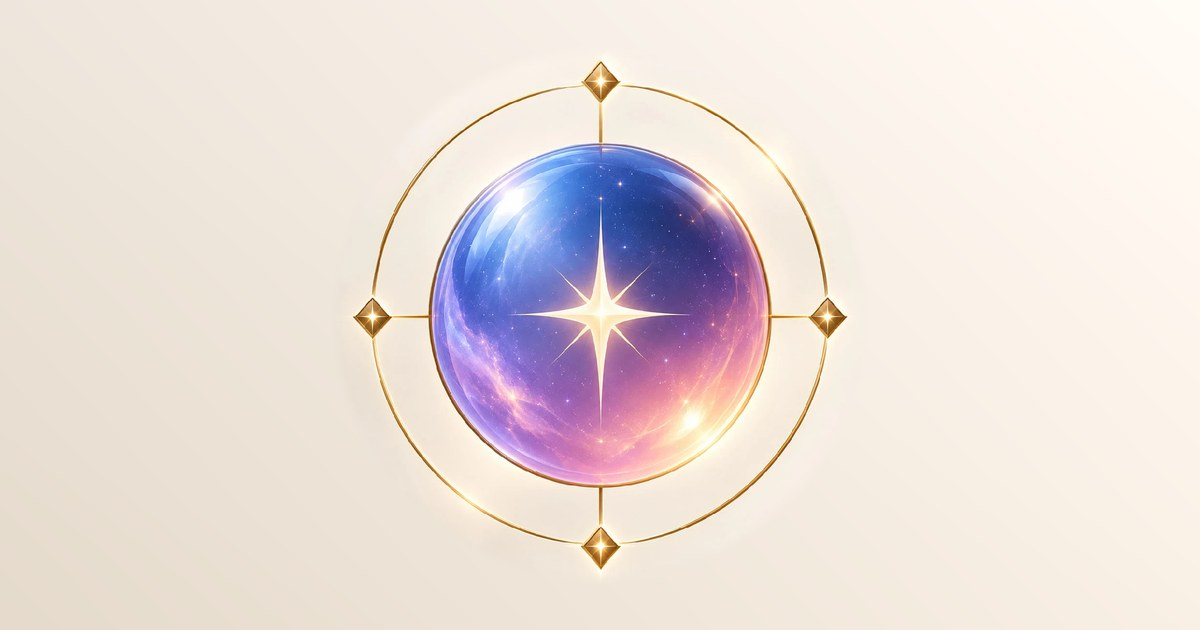
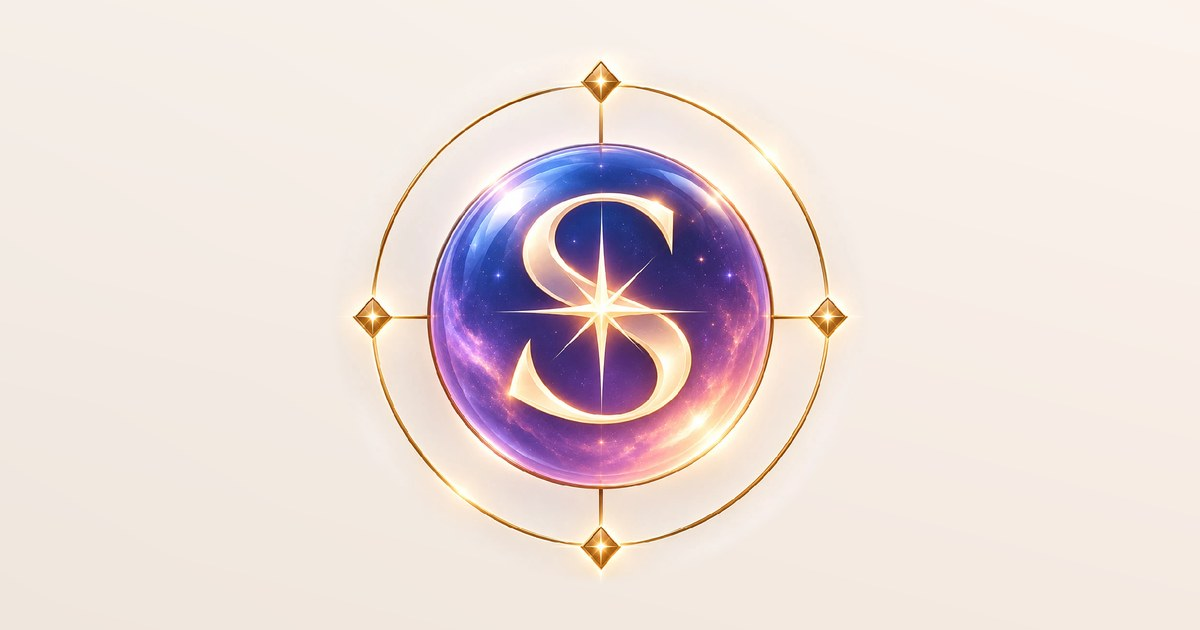
Новое название Saliastro и новый знак (шар с буквой S); адрес sneznyj.github.io/saliastro
src: 8cfd6367d42af735d5a2ddbde6f9e17f64b71e4a

diff --git a/index.html b/index.html
@@ -4,12 +4,12 @@
 <meta charset="utf-8">
 <meta name="robots" content="noindex, nofollow">
 <meta name="viewport" content="width=device-width,initial-scale=1,viewport-fit=cover">
-<title>Salistro — твоя карта как инструкция к себе</title>
+<title>Saliastro — твоя карта как инструкция к себе</title>
 <meta name="description" content="Личный астрологический календарь: баллы дня для любви, денег, работы и запусков. Натальная карта простым языком, совместимость, ИИ-помощник и профи-инструменты.">
-<meta property="og:title" content="Salistro — твоя карта как инструкция к себе">
+<meta property="og:title" content="Saliastro — твоя карта как инструкция к себе">
 <meta property="og:description" content="Нажми кнопку — и увидишь баллы своих дней: любовь, деньги, работа, запуски. Без астрологических терминов.">
 <meta property="og:type" content="website">
-<meta property="og:image" content="https://sneznyj.github.io/natalogy/assets/brand/og-1200x630.jpg">
+<meta property="og:image" content="https://sneznyj.github.io/saliastro/assets/brand/og-1200x630.jpg">
 <meta name="theme-color" content="#FDFAF5">
 <link rel="manifest" href="manifest.webmanifest">
 <link rel="icon" href="assets/icons/favicon.ico" sizes="any">
@@ -21,7 +21,7 @@
 <link rel="stylesheet" href="https://fonts.googleapis.com/css2?family=Cormorant+Garamond:ital,wght@0,500;0,600;1,500;1,600&family=Manrope:wght@400;500;600;700;800&family=Caveat:wght@600&family=JetBrains+Mono:wght@400;500;600&display=swap">
 <link rel="stylesheet" href="https://fonts.googleapis.com/css2?family=Noto+Sans+Symbols&family=Noto+Sans+Symbols+2&display=swap&text=%E2%98%89%E2%98%BD%E2%98%BF%E2%99%80%E2%99%82%E2%99%83%E2%99%84%E2%99%85%E2%99%86%E2%99%87%E2%AF%93%E2%98%8A%E2%98%8B%E2%9A%B7%E2%9A%B8%E2%8A%97%E2%99%88%E2%99%89%E2%99%8A%E2%99%8B%E2%99%8C%E2%99%8D%E2%99%8E%E2%99%8F%E2%99%90%E2%99%91%E2%99%92%E2%99%93%E2%98%8C%E2%9A%B9%E2%96%A1%E2%96%B3%E2%98%8D%EF%B8%8E">
 <link rel="stylesheet" href="css/app.css">
-<script>try{var s=JSON.parse(localStorage.getItem('natalogy:v1')||'{}').settings||{};if(s.theme==='dark'||s.theme==='light')document.documentElement.setAttribute('data-theme',s.theme)}catch(e){}</script>
+<script>try{var s=JSON.parse(localStorage.getItem('saliastro:v1')||localStorage.getItem('natalogy:v1')||'{}').settings||{};if(s.theme==='dark'||s.theme==='light')document.documentElement.setAttribute('data-theme',s.theme)}catch(e){}</script>
 <style>
 /* Витрина: та же система, что в кабинете, — кремовый лист, лаванда, золото. Каждая карточка ведёт прямо в раздел кабинета. */
 .lw{max-width:1180px;margin:0 auto;padding-inline:20px}
@@ -111,7 +111,7 @@ ul.yes li::before{content:"✓";color:var(--mint);font-weight:800}
 </head>
 <body>
 <header class="lnav"><div class="lw">
-  <a class="brand" href="./"><span class="brand-mark" aria-hidden="true"></span>Salistro</a>
+  <a class="brand" href="./"><span class="brand-mark" aria-hidden="true"></span>Saliastro</a>
   <span class="sp"></span>
   <a class="lk lk-hot" href="app.html#horoscope" data-i="nav.horo">★ Гороскоп</a>
   <a class="lk" href="app.html#calendar" data-i="nav.cal">Календарь</a>
@@ -215,7 +215,7 @@ ul.yes li::before{content:"✓";color:var(--mint);font-weight:800}
   </section>
 </main>
 <footer class="foot"><div class="lw cols">
-  <div><a class="brand" href="./" style="color:var(--ink)"><span class="brand-mark" aria-hidden="true"></span>Salistro</a><p style="margin-top:10px" data-i="foot.note">Для самопознания. Не медицинский, юридический или финансовый совет.</p><p style="margin-top:8px">© 2026 Natalogy · <a href="privacy.html" data-i="privacy">Конфиденциальность</a> · <a href="terms.html" data-i="terms">Условия</a></p></div>
+  <div><a class="brand" href="./" style="color:var(--ink)"><span class="brand-mark" aria-hidden="true"></span>Saliastro</a><p style="margin-top:10px" data-i="foot.note">Для самопознания. Не медицинский, юридический или финансовый совет.</p><p style="margin-top:8px">© 2026 Saliastro · <a href="privacy.html" data-i="privacy">Конфиденциальность</a> · <a href="terms.html" data-i="terms">Условия</a></p></div>
   <div><span class="label" data-i="foot.lk">Кабинет</span><ul><li><a href="app.html#horoscope" data-i="l.horo">Гороскоп</a></li><li><a href="app.html#numerology" data-i="l.num">Нумерология</a></li><li><a href="app.html#sky" data-i="l.sky">Небо и Луна</a></li><li><a href="app.html#today" data-i="l.today">Сегодня</a></li><li><a href="app.html#calendar" data-i="l.cal">Календарь</a></li><li><a href="app.html#calendar?v=week" data-i="l.week">Неделя по часам</a></li><li><a href="app.html#chart" data-i="l.chart">Моя карта</a></li><li><a href="app.html#pair" data-i="l.pair">Совместимость</a></li><li><a href="app.html#ask" data-i="l.ask">Спросить ИИ</a></li></ul></div>
   <div><span class="label" data-i="foot.pro">Профи</span><ul><li><a href="app.html#pro?type=transit" data-i="l.tr">Транзиты</a></li><li><a href="app.html#pro?type=solar" data-i="l.sol">Соляр</a></li><li><a href="app.html#pro?type=directions" data-i="l.dir">Дирекции</a></li><li><a href="app.html#pro?tab=firdaria" data-i="l.fird">Фирдарии</a></li><li><a href="app.html#pro?tab=acg" data-i="l.acg">Астрокартография</a></li><li><a href="app.html#people" data-i="l.people">Мои люди</a></li></ul></div>
 </div></footer>
@@ -266,7 +266,7 @@ ul.yes li::before{content:"✓";color:var(--mint);font-weight:800}
   };
   const lang = UI.lang();
   document.documentElement.lang = lang;
-  if (lang === 'en') { document.querySelectorAll('[data-i]').forEach((el) => { const v = EN[el.dataset.i]; if (v == null) return; if (el.hasAttribute('data-html')) el.innerHTML = v; else el.textContent = v; }); document.title = 'Salistro — your chart as a guide to yourself'; }
+  if (lang === 'en') { document.querySelectorAll('[data-i]').forEach((el) => { const v = EN[el.dataset.i]; if (v == null) return; if (el.hasAttribute('data-html')) el.innerHTML = v; else el.textContent = v; }); document.title = 'Saliastro — your chart as a guide to yourself'; }
   const sw = document.getElementById('langsw'); sw.textContent = lang === 'en' ? 'RU' : 'EN';
   sw.addEventListener('click', () => { window.NStore.set('lang', lang === 'en' ? 'ru' : 'en'); location.reload(); });
   // уже есть карта — приветствие и ссылки сразу в кабинет
@@ -307,7 +307,7 @@ ul.yes li::before{content:"✓";color:var(--mint);font-weight:800}
     document.getElementById('horoSigns').innerHTML = AC.SIGNS.map((s, i) => { const r = H.scoreDay(i, st, { voc }).r.overall; return `<a class="sg${s === mySign ? ' me' : ''}" href="app.html#horoscope?sign=${s}"><span class="g">${window.NWheel.SIGN_G[i]}</span><b>${TX.S[s].name}</b><small>${DATES[i]}</small><span class="pt pts ${UI.lvCls(r.level)}">${r.pts}<small>/10</small></span></a>`; }).join('');
   } catch (e) { console.error(e); }
   // уже вошёл в аккаунт — кнопка «Войти» не нужна
-  try { if (JSON.parse(localStorage.getItem('natalogy:acct') || '{}').token) document.getElementById('loginLk').hidden = true; } catch (e) { /* пусто */ }
+  try { if (JSON.parse(localStorage.getItem('saliastro:acct') || localStorage.getItem('natalogy:acct') || '{}').token) document.getElementById('loginLk').hidden = true; } catch (e) { /* пусто */ }
   document.getElementById('tools').innerHTML = TOOLS.map(([g, r, e, h]) => `<a href="app.html#${h}"><b>${g}</b>${lang === 'en' ? e : r}</a>`).join('');
   // демо
   const dd = document.getElementById('dd');

diff --git a/js/account.js b/js/account.js
@@ -1,4 +1,4 @@
-/* Аккаунт Natalogy (необязательный). Без входа всё хранится в браузере, и сохранить можно одну карточку (NCONFIG.account.guestLimit).
+/* Аккаунт Saliastro (необязательный). Без входа всё хранится в браузере, и сохранить можно одну карточку (NCONFIG.account.guestLimit).
    Вход: Google, Яндекс ID, VK ID (ВКонтакте, Одноклассники, Mail.ru), Telegram или почта + пароль. После входа карточки
    с устройства сливаются с карточками аккаунта и дальше синхронизируются (сервер — server/account-worker, данные там зашифрованы).
    Пароль не уходит на сервер: браузер отправляет только его хэш (PBKDF2, 210 000 повторов), сервер хэширует ещё раз со своей солью. */
@@ -7,12 +7,12 @@
   const UI = root.NUI, S = root.NStore;
   const { t, esc, icon } = UI;
   const CFG = () => (root.NCONFIG && root.NCONFIG.account) || {};
-  const KEY = 'natalogy:acct', AFTER = 'natalogy:afterLogin';
+  const KEY = 'saliastro:acct', AFTER = 'saliastro:afterLogin';
   let A = readA();
   let status = A.token ? (A.dirty ? 'dirty' : 'ok') : 'guest';
   let applying = false, timer = null, pushing = null, provCache = null, pendingCode = null, pendingErr = null, pendingOpen = false, linkedNote = null;
 
-  function readA() { try { return JSON.parse(localStorage.getItem(KEY) || 'null') || {}; } catch (e) { return {}; } }
+  function readA() { try { return JSON.parse(localStorage.getItem(KEY) || localStorage.getItem('natalogy:acct') || 'null') || {}; } catch (e) { return {}; } } // natalogy:acct — вход до переименования 16.10.2026
   function saveA() { try { localStorage.setItem(KEY, JSON.stringify(A)); } catch (e) { /* без хранилища — до перезагрузки */ } }
   const loggedIn = () => !!(A && A.token);
   const enabled = () => !!CFG().api;
@@ -36,7 +36,7 @@
   }
   async function pwHash(email, pw) {
     const k = await crypto.subtle.importKey('raw', new TextEncoder().encode(pw), 'PBKDF2', false, ['deriveBits']);
-    const bits = await crypto.subtle.deriveBits({ name: 'PBKDF2', hash: 'SHA-256', salt: new TextEncoder().encode('natalogy|' + String(email).trim().toLowerCase()), iterations: 210000 }, k, 256);
+    const bits = await crypto.subtle.deriveBits({ name: 'PBKDF2', hash: 'SHA-256', salt: new TextEncoder().encode('natalogy|' /* соль не менять: от неё зависят уже заданные пароли */ + String(email).trim().toLowerCase()), iterations: 210000 }, k, 256);
     let s = ''; new Uint8Array(bits).forEach((b) => { s += String.fromCharCode(b); }); return btoa(s);
   }
 
@@ -50,7 +50,7 @@
     for (const k of Object.keys(del)) if (del[k] < cutoff) delete del[k];
     const pick = (a, b) => { const m = new Map(); for (const x of (a || []).concat(b || [])) { if (!x || !x.id) continue; const q = m.get(x.id); if (!q || stamp(x) > stamp(q)) m.set(x.id, x); } return Array.from(m.values()).filter((x) => !(del[x.id] && del[x.id] >= stamp(x))); };
     const newer = (local.settingsAt || 0) >= (remote.settingsAt || 0);
-    return { app: 'natalogy', v: 1, people: pick(remote.people, local.people), saved: pick(remote.saved, local.saved).sort((a, b) => (b.at || 0) - (a.at || 0)), deleted: del, settings: newer ? local.settings : remote.settings, settingsAt: Math.max(local.settingsAt || 0, remote.settingsAt || 0), activeId: local.activeId || remote.activeId };
+    return { app: 'saliastro', v: 1, people: pick(remote.people, local.people), saved: pick(remote.saved, local.saved).sort((a, b) => (b.at || 0) - (a.at || 0)), deleted: del, settings: newer ? local.settings : remote.settings, settingsAt: Math.max(local.settingsAt || 0, remote.settingsAt || 0), activeId: local.activeId || remote.activeId };
   }
   const norm = (d) => JSON.stringify(d ? [(d.people || []).map((p) => [p.id, stamp(p)]).sort(), (d.saved || []).map((c) => [c.id, stamp(c)]).sort(), Object.keys(d.deleted || {}).sort(), d.settingsAt || 0] : null);
   function apply(doc) {
@@ -174,7 +174,7 @@
       denied: t('acc.e.denied', 'Вход отменён.'),
       provider: t('acc.e.provider', 'Сервис входа не ответил. Попробуйте ещё раз или другой способ.'),
       unavailable: t('acc.e.unavail', 'Этот способ входа пока недоступен — выберите другой.'),
-      already_linked: t('acc.e.linked', 'Этот вход уже привязан к другому аккаунту Salistro.'),
+      already_linked: t('acc.e.linked', 'Этот вход уже привязан к другому аккаунту Saliastro.'),
       last_login: t('acc.e.last', 'Нельзя отвязать единственный способ входа.'),
     })[c] || t('acc.e.other', 'Что-то пошло не так. Попробуйте ещё раз.');
   }

diff --git a/terms.html b/terms.html
@@ -4,7 +4,7 @@
 <meta charset="utf-8">
 <meta name="robots" content="noindex, nofollow">
 <meta name="viewport" content="width=device-width,initial-scale=1,viewport-fit=cover">
-<title>Salistro — условия</title>
+<title>Saliastro — условия</title>
 <meta name="theme-color" content="#F3F2F6">
 <link rel="icon" href="assets/icons/favicon.ico" sizes="any">
 <link rel="icon" href="assets/icons/favicon-32.png" type="image/png" sizes="32x32">
@@ -16,12 +16,12 @@
 </head>
 <body>
 <main class="doc">
-  <a class="brand" href="./"><span class="brand-mark" aria-hidden="true"></span>Salistro</a>
+  <a class="brand" href="./"><span class="brand-mark" aria-hidden="true"></span>Saliastro</a>
   <h1>Условия использования</h1>
   <p class="muted">Редакция от 12 октября 2026 года. English version below.</p>
 
   <h2>1. Что это за сервис</h2>
-  <p>Salistro — программа для самопознания и планирования: она считает астрологические карты и календарь и объясняет их простым языком. Это не гадание, не предсказание судьбы и не замена консультации врача, юриста, психолога или финансового советника.</p>
+  <p>Saliastro — программа для самопознания и планирования: она считает астрологические карты и календарь и объясняет их простым языком. Это не гадание, не предсказание судьбы и не замена консультации врача, юриста, психолога или финансового советника.</p>
 
   <h2>2. Возраст</h2>
   <p>Пользоваться можно с 16 лет.</p>
@@ -59,7 +59,7 @@
   <hr class="soft">
   <h1 lang="en">Terms of use</h1>
   <div lang="en" class="stack">
-    <p><b>1. The service.</b> Salistro is software for self-reflection and planning: it calculates astrological charts and calendars and explains them in plain language. It is not fortune telling and not a substitute for medical, legal, psychological or financial advice.</p>
+    <p><b>1. The service.</b> Saliastro is software for self-reflection and planning: it calculates astrological charts and calendars and explains them in plain language. It is not fortune telling and not a substitute for medical, legal, psychological or financial advice.</p>
     <p><b>2. Age.</b> 16+.</p>
     <p><b>3. Free version and beta.</b> All features are currently free in beta. Daily AI questions are limited. We may change features and limits with notice in the app.</p>
     <p><b>Account.</b> You can use the service without signing in; one person’s chart is saved without an account. Signing in (Google, Yandex ID, VK ID, Telegram or email and password) lets you save more charts and see them on all your devices. Don’t share your sign-in. You can delete your account in Settings at any time.</p>
@@ -70,7 +70,7 @@
     <p><b>8. Liability.</b> Provided “as is”; to the extent permitted by law we are not liable for indirect damages or decisions based on interpretations.</p>
     <p><b>9. Law.</b> Georgian law applies unless mandatory rules of your country give you more protection. Contact us first: <span class="ph">[email]</span>. Provider: <span class="ph">[sole proprietor — name, Georgian registration number, address]</span>.</p>
   </div>
-  <p><a href="app.html">← Salistro</a></p>
+  <p><a href="app.html">← Saliastro</a></p>
 </main>
 </body>
 </html>

diff --git a/js/store.js b/js/store.js
@@ -4,14 +4,14 @@
    Чтение и запись обёрнуты в try/catch: в приватном режиме хранилище может быть недоступно. */
 (function (root) {
   'use strict';
-  const KEY = 'natalogy:v1';
+  const KEY = 'saliastro:v1', OLD_KEY = 'natalogy:v1'; // до 16.10.2026 данные лежали под старым рабочим названием — переносим при первом открытии
   let mem = null;
   const empty = () => ({ people: [], activeId: null, settings: { lang: null, theme: 'system', houseSystem: 'placidus', here: null, aiConsent: false, mode: 'simple', orbs: 1 }, saved: [], ask: { day: '', used: 0 }, deviceId: null, deleted: {}, settingsAt: 0 });
   // настройки, которые едут вместе с аккаунтом на другие устройства
   const SYNC_SETTINGS = ['lang', 'theme', 'houseSystem', 'here', 'aiConsent', 'mode', 'orbs', 'horoSign', 'orbTable'];
   function load() {
     if (mem) return mem;
-    try { const raw = localStorage.getItem(KEY); mem = raw ? Object.assign(empty(), JSON.parse(raw)) : empty(); } catch (e) { mem = empty(); }
+    try { let raw = localStorage.getItem(KEY); if (!raw && (raw = localStorage.getItem(OLD_KEY))) localStorage.setItem(KEY, raw); mem = raw ? Object.assign(empty(), JSON.parse(raw)) : empty(); } catch (e) { mem = empty(); }
     mem.settings = Object.assign(empty().settings, mem.settings || {});
     if (!mem.deleted || typeof mem.deleted !== 'object') mem.deleted = {};
     if (!mem.deviceId) mem.deviceId = rid() + rid();
@@ -56,10 +56,10 @@
     askUsed(day) { const a = load().ask; return a.day === day ? a.used : 0; },
     askInc(day) { const s = load(); if (s.ask.day !== day) s.ask = { day, used: 0 }; s.ask.used++; save(); },
     deviceId() { return load().deviceId; },
-    exportJSON() { const s = load(); return JSON.stringify({ app: 'natalogy', v: 1, people: s.people, saved: s.saved, settings: s.settings }, null, 1); },
+    exportJSON() { const s = load(); return JSON.stringify({ app: 'saliastro', v: 1, people: s.people, saved: s.saved, settings: s.settings }, null, 1); },
     importJSON(text) {
       const d = JSON.parse(text);
-      if (!d || d.app !== 'natalogy' || !Array.isArray(d.people)) throw new Error('bad file');
+      if (!d || (d.app !== 'saliastro' && d.app !== 'natalogy') || !Array.isArray(d.people)) throw new Error('bad file');
       const s = load();
       for (const p of d.people) { if (!s.people.some((x) => x.id === p.id)) s.people.push(p); }
       for (const c of d.saved || []) { if (!s.saved.some((x) => x.id === c.id)) s.saved.push(c); }
@@ -72,7 +72,7 @@
     syncDoc() {
       const s = load(), set = {};
       for (const k of SYNC_SETTINGS) if (s.settings[k] !== undefined) set[k] = s.settings[k];
-      return { app: 'natalogy', v: 1, people: s.people, saved: s.saved, deleted: s.deleted, settings: set, settingsAt: s.settingsAt || 0, activeId: s.activeId };
+      return { app: 'saliastro', v: 1, people: s.people, saved: s.saved, deleted: s.deleted, settings: set, settingsAt: s.settingsAt || 0, activeId: s.activeId };
     },
     /** Применить слитый снимок (после входа или с другого устройства). Без записи в историю правок. */
     applyDoc(d) {

diff --git a/app.html b/app.html
@@ -4,7 +4,7 @@
 <meta charset="utf-8">
 <meta name="robots" content="noindex, nofollow">
 <meta name="viewport" content="width=device-width,initial-scale=1,viewport-fit=cover">
-<title>Salistro</title>
+<title>Saliastro</title>
 <meta name="description" content="Личный астрологический календарь: какие дни хороши для любви, денег, работы и запусков. Натальная карта простым языком и профи-инструменты.">
 <meta name="theme-color" content="#FDFAF5">
 <link rel="manifest" href="manifest.webmanifest">
@@ -17,7 +17,7 @@
 <link rel="stylesheet" href="https://fonts.googleapis.com/css2?family=Cormorant+Garamond:ital,wght@0,500;0,600;1,500;1,600&family=Manrope:wght@400;500;600;700;800&family=Caveat:wght@600&family=JetBrains+Mono:wght@400;500;600&display=swap">
 <link rel="stylesheet" href="https://fonts.googleapis.com/css2?family=Noto+Sans+Symbols&family=Noto+Sans+Symbols+2&display=swap&text=%E2%98%89%E2%98%BD%E2%98%BF%E2%99%80%E2%99%82%E2%99%83%E2%99%84%E2%99%85%E2%99%86%E2%99%87%E2%AF%93%E2%98%8A%E2%98%8B%E2%9A%B7%E2%9A%B8%E2%8A%97%E2%99%88%E2%99%89%E2%99%8A%E2%99%8B%E2%99%8C%E2%99%8D%E2%99%8E%E2%99%8F%E2%99%90%E2%99%91%E2%99%92%E2%99%93%E2%98%8C%E2%9A%B9%E2%96%A1%E2%96%B3%E2%98%8D%E2%9A%BB%E2%9A%BA%E2%88%A0%E2%9A%BC%E2%9C%A6%E2%9C%B6%E2%97%8B%E2%97%8F%E2%86%92%E2%86%94%EF%B8%8E">
 <link rel="stylesheet" href="css/app.css">
-<script>try{var s=JSON.parse(localStorage.getItem('natalogy:v1')||'{}').settings||{};if(s.theme==='dark'||s.theme==='light')document.documentElement.setAttribute('data-theme',s.theme)}catch(e){}</script>
+<script>try{var s=JSON.parse(localStorage.getItem('saliastro:v1')||localStorage.getItem('natalogy:v1')||'{}').settings||{};if(s.theme==='dark'||s.theme==='light')document.documentElement.setAttribute('data-theme',s.theme)}catch(e){}</script>
 </head>
 <body>
 <div id="app"><main class="main"><p style="opacity:.6">Загрузка…</p></main></div>

diff --git a/js/config.js b/js/config.js
@@ -1,7 +1,7 @@
 /* Настройки проекта: всё, что меняется без правки кода. */
 window.NCONFIG = {
-  brand: 'Salistro',              // название (16.10.2026: было рабочее Natalogy) — меняется здесь, в manifest.webmanifest, заголовках *.html и в privacy/terms
-  brandRu: 'Наталогия',
+  brand: 'Saliastro',              // название (16.10.2026) — меняется здесь, в manifest.webmanifest, заголовках *.html и в privacy/terms
+  brandRu: 'Салиастро',
   version: '0.5.0',
   // Адрес ИИ-помощника (Cloudflare Worker из server/ai-worker). Пусто — отвечает встроенный помощник по правилам, без интернета.
   aiEndpoint: '',
@@ -22,8 +22,8 @@ window.NCONFIG = {
   pro: { paid: false, priceMonth: '$7.99', priceYear: '$49' }, // платная подписка — после выхода Венеры из тени (15.12.2026)
   // Аккаунты (необязательный вход): сервер server/account-worker. guestLimit — сколько карточек можно сохранить без входа.
   // Пусто в api — кнопки «Войти» нет, всё только на устройстве.
-  account: { api: 'https://natalogy-account.sneznyjpavel.workers.dev', guestLimit: 1 },
+  account: { api: 'https://natalogy-account.sneznyjpavel.workers.dev', guestLimit: 1 }, // адрес сервера прежний: на него настроены входы Google, Яндекс, VK, Telegram
   contact: '',
   searchIndex: false,             // false — сайт закрыт от поисковиков (noindex), открывают только по ссылке. true — когда будет публичный запуск
-  siteUrl: 'https://sneznyj.github.io/natalogy/',
+  siteUrl: 'https://sneznyj.github.io/saliastro/',
 };

diff --git a/js/i18n-en.js b/js/i18n-en.js
@@ -179,7 +179,7 @@ Object.assign(window.NI18N.en, {
   'acc.e.offline': 'Can’t reach the server. Check your internet and try again.', 'acc.e.wrong': 'Wrong email or password.', 'acc.e.taken': 'This email is already registered — sign in with your password or with the same button as last time.',
   'acc.e.email': 'Check the email address.', 'acc.e.pw': 'The password must be at least 8 characters.', 'acc.e.rate': 'Too many attempts. Wait 15 minutes.', 'acc.e.nopw': 'This account has no password — sign in with a button above (Google, Yandex…).',
   'acc.e.state': 'Sign-in was interrupted — please try again.', 'acc.e.denied': 'Sign-in cancelled.', 'acc.e.provider': 'The sign-in service didn’t respond. Try again or use another way.', 'acc.e.unavail': 'This sign-in method isn’t available yet — choose another.',
-  'acc.e.linked': 'This sign-in is already linked to another Salistro account.', 'acc.e.last': 'You can’t unlink your only way to sign in.', 'acc.e.other': 'Something went wrong. Please try again.', 'acc.off': 'Sign-in isn’t connected yet',
+  'acc.e.linked': 'This sign-in is already linked to another Saliastro account.', 'acc.e.last': 'You can’t unlink your only way to sign in.', 'acc.e.other': 'Something went wrong. Please try again.', 'acc.off': 'Sign-in isn’t connected yet',
   'acc.whyMore': 'Without signing in you can save one chart. Sign in to add as many as you like: everything is kept in your account and won’t disappear, even if the browser is cleared.',
   'acc.why': 'An account keeps your charts and settings safe: they won’t disappear when the browser is cleared, and they’ll be on your phone and computer.',
   'acc.loading': 'Loading sign-in options…', 'acc.orEmail': 'or with email', 'acc.tLogin': 'Sign in', 'acc.tReg': 'Create account', 'acc.name': 'Your name', 'acc.email': 'Email', 'acc.pw': 'Password', 'acc.show': 'Show password',

diff --git a/privacy.html b/privacy.html
@@ -4,7 +4,7 @@
 <meta charset="utf-8">
 <meta name="robots" content="noindex, nofollow">
 <meta name="viewport" content="width=device-width,initial-scale=1,viewport-fit=cover">
-<title>Salistro — конфиденциальность</title>
+<title>Saliastro — конфиденциальность</title>
 <meta name="theme-color" content="#F3F2F6">
 <link rel="icon" href="assets/icons/favicon.ico" sizes="any">
 <link rel="icon" href="assets/icons/favicon-32.png" type="image/png" sizes="32x32">
@@ -16,7 +16,7 @@
 </head>
 <body>
 <main class="doc">
-  <a class="brand" href="./"><span class="brand-mark" aria-hidden="true"></span>Salistro</a>
+  <a class="brand" href="./"><span class="brand-mark" aria-hidden="true"></span>Saliastro</a>
   <h1>Политика конфиденциальности</h1>
   <p class="muted">Редакция от 12 октября 2026 года. English version below.</p>
 
@@ -71,7 +71,7 @@
     <p><b>International transfers</b>: Anthropic PBC (USA) — API data is not used to train models; Cloudflare (USA) hosts our server and the account database (Cloudflare D1; chart data is encrypted). Google, Yandex, VK and Telegram handle sign-in under their own terms.</p>
     <p><b>Your rights</b>: access, correction, deletion, withdrawal of consent, and complaint to your local authority. Most of them you exercise directly in the app. The service is for people aged 16+.</p>
   </div>
-  <p><a href="app.html">← Salistro</a></p>
+  <p><a href="app.html">← Saliastro</a></p>
 </main>
 </body>
 </html>

diff --git a/js/pages/chart.js b/js/pages/chart.js
@@ -147,7 +147,7 @@
       }
     };
     const jumpTo = (d) => { st.at = Math.abs(d - Date.now()) < 60000 ? null : d; if (tb && tb.set) tb.set(d); drawWheel(); };
-    el.addEventListener('natalogy:jump', (e) => jumpTo(e.detail));
+    el.addEventListener('saliastro:jump', (e) => jumpTo(e.detail));
     el.querySelectorAll('[data-mode]').forEach((b) => b.addEventListener('click', () => { st.mode = b.dataset.mode; el.querySelectorAll('[data-mode]').forEach((x) => x.setAttribute('aria-pressed', String(x === b))); setHint(); mountBar(); drawWheel(); if (st.mode === 'natal') drawPortrait(el, p, natalFor(p)); }));
     // «Рабочий режим»: та же карта (с тем же моментом и пробным временем) в Профи — на весь экран
     el.querySelector('[data-work]').addEventListener('click', () => {
@@ -227,7 +227,7 @@
     }));
     el.querySelectorAll('#posBox [data-sd]').forEach((g) => g.addEventListener('click', () => {
       const d = new Date(mom.getTime() + (+g.dataset.sd) * 86400000);
-      el.dispatchEvent(new CustomEvent('natalogy:jump', { detail: d }));
+      el.dispatchEvent(new CustomEvent('saliastro:jump', { detail: d }));
     }));
   }
 

diff --git a/js/ai.js b/js/ai.js
@@ -39,7 +39,7 @@
       .map((r) => ({ planet: r.id, from: r.start.toISOString().slice(0, 10), to: r.end.toISOString().slice(0, 10) }));
     const age = now.y - person.y - ((now.mo < person.mo || (now.mo === person.mo && now.d < person.d)) ? 1 : 0);
     const f = {
-      app: 'natalogy', today: dstr(now), timezone: tz, person: { gender: person.gender === 'f' ? 'female' : 'male', age, birth_time_known: person.timeKnown !== false },
+      app: 'saliastro', today: dstr(now), timezone: tz, person: { gender: person.gender === 'f' ? 'female' : 'male', age, birth_time_known: person.timeKnown !== false },
       natal: natalFacts(natal), day: summarizeDay(day0), day_reasons: reasons, next_days: days.slice(1, 15).map(summarizeDay), best_days_45: best, slow_transits: slow, retrogrades: retro,
       profection: (() => { try { const pr = AC.profection(natal, new Date()); return { house: pr.house, sign: pr.sign, lord: pr.lord }; } catch (e) { return undefined; } })(),
     };

diff --git a/css/app.css b/css/app.css
@@ -1,4 +1,4 @@
-/* Natalogy — дизайн-система (12.10.2026, v2 «как у Алины»).
+/* Saliastro — дизайн-система (12.10.2026, v2 «как у Алины»).
    Светлый кремовый лист (почти белый), лаванда и шампанское-золото — акценты, мягкие пастельные уровни дня:
    зелёный — можно, персиковый и розовый — осторожно, лиловый — сильный акцент.
    Колесо карты — «бумажное», как в Sotis/Chronos: белый круг, пастельный пояс знаков; в тёмной теме — контрастное. */

diff --git a/js/numerology-texts.js b/js/numerology-texts.js
@@ -1,4 +1,4 @@
-/* Тексты нумерологии Natalogy (написаны заново): значения чисел, личный год/месяц/день, клетки и линии квадрата Пифагора.
+/* Тексты нумерологии Saliastro (написаны заново): значения чисел, личный год/месяц/день, клетки и линии квадрата Пифагора.
    Тон спокойный: числа описывают склонности, а не приговор. Русский и английский с одинаковым устройством. */
 (function (root) {
   'use strict';
